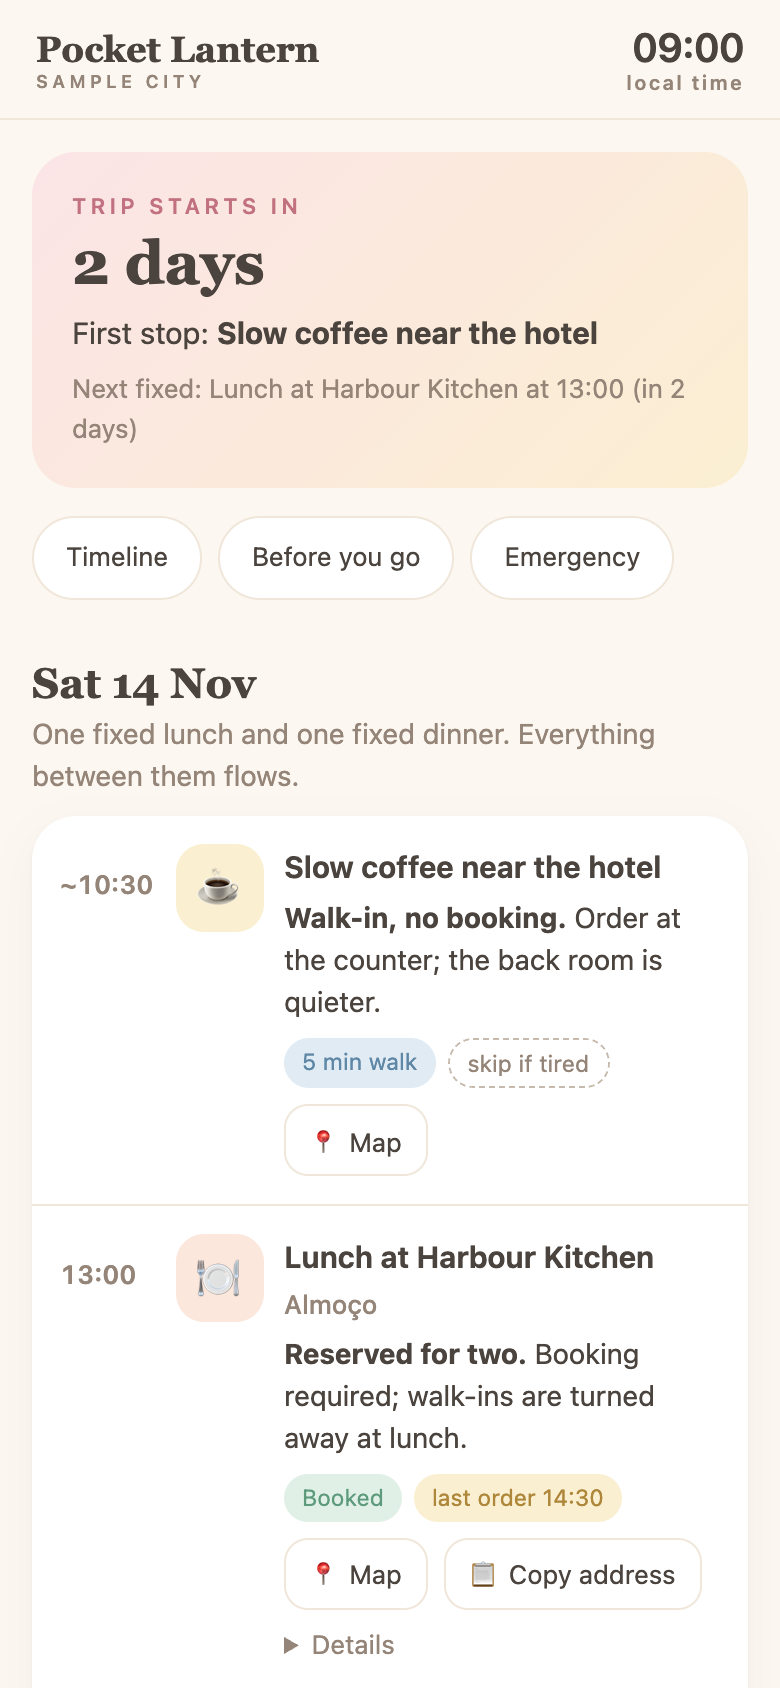
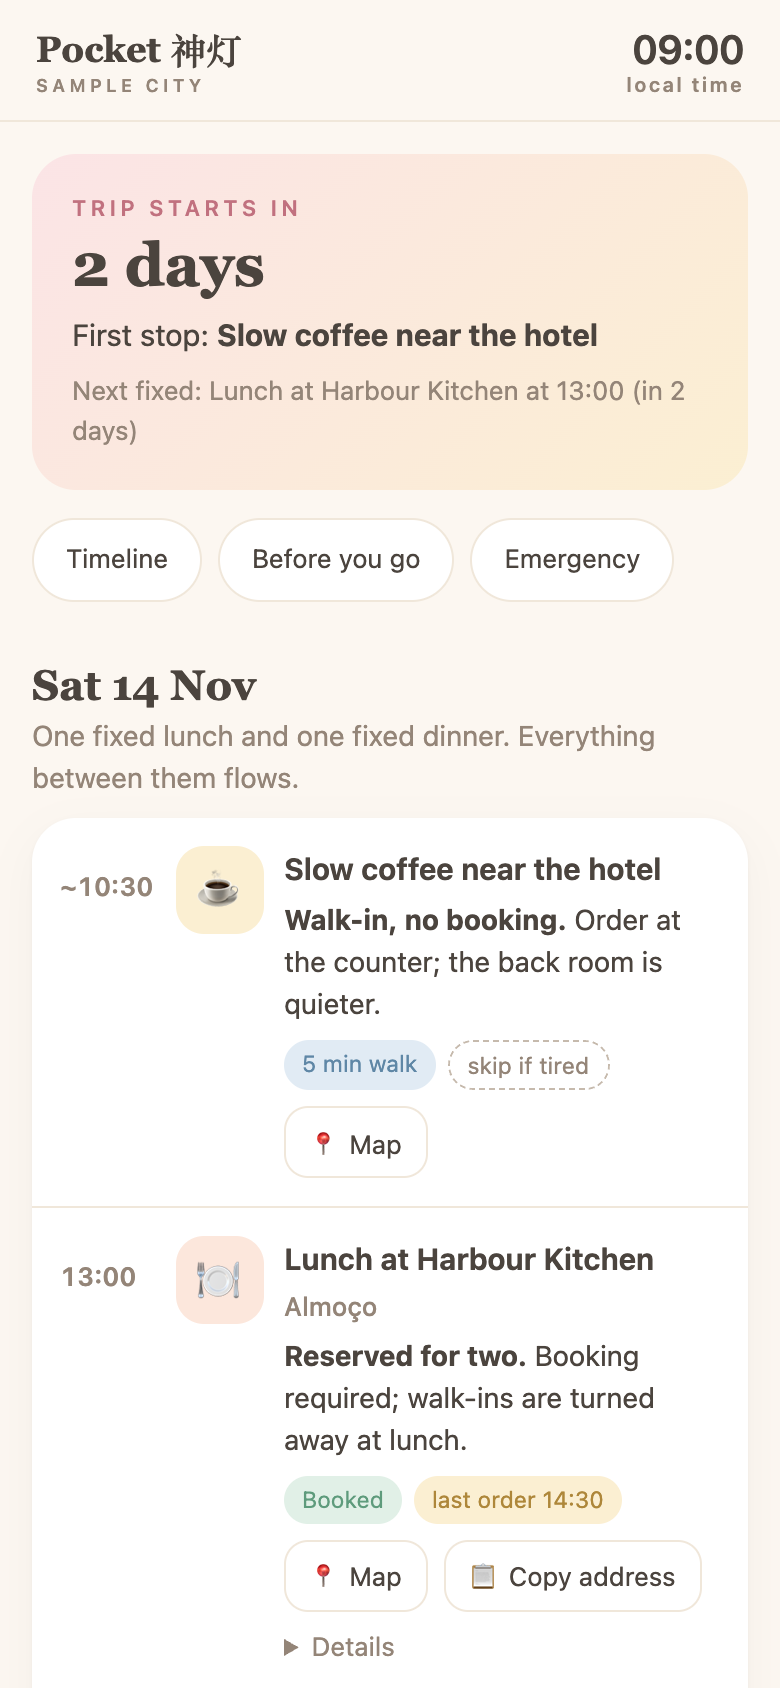
Rename to Pocket 神灯 (pocket-genie)
Display name Pocket 神灯, ASCII slug pocket-genie for the repo, plugin and
skill. Intro and tagline reworked around the pocket-genie idea. All
descriptions remain English; the name is the only non-English text.

diff --git a/skills/pocket-genie/SKILL.md b/skills/pocket-genie/SKILL.md
@@ -1,11 +1,11 @@
 ---
-name: pocket-lantern
-description: Turn any itinerary, booking list or rough travel plan into a calm, glanceable, in-the-moment trip companion - a single-file mobile web app (a "Pocket Lantern") with a live Now/Next hero, a timeline that only puts a clock on the things that are truly booked, a failure plan for every stop, show-the-driver address cards, and honest verified-versus-unverified facts. Built to reduce travel anxiety, not to list attractions. Use this skill whenever the user wants a trip app, travel companion, day-of itinerary page, "what do I do right now" guide, a city guide for one specific trip, or wants to turn a plan, emails or bookings into a phone-friendly page - even if they never say "app" or "lantern" and only say things like "make my trip plan usable on my phone", "I'm nervous about landing in a new city", "make a one-day itinerary I can follow", or "turn these bookings into a timeline".
+name: pocket-genie
+description: Turn any itinerary, booking list or rough travel plan into a calm, glanceable, in-the-moment trip companion - a single-file mobile web app (a "Pocket 神灯", a pocket genie lamp) with a live Now/Next hero, a timeline that only puts a clock on the things that are truly booked, a failure plan for every stop, show-the-driver address cards, and honest verified-versus-unverified facts. Built to reduce travel anxiety, not to list attractions. Use this skill whenever the user wants a trip app, travel companion, day-of itinerary page, "what do I do right now" guide, a city guide for one specific trip, or wants to turn a plan, emails or bookings into a phone-friendly page - even if they never say "app" or "genie" and only say things like "make my trip plan usable on my phone", "I'm nervous about landing in a new city", "make a one-day itinerary I can follow", or "turn these bookings into a timeline".
 ---
 
-# Pocket Lantern
+# Pocket 神灯 (pocket-genie)
 
-A map gives you routes. It does not tell you what the street will feel like, what to do when the train is cancelled, or which door is the real hotel entrance. A Pocket Lantern is the missing layer: one phone-sized page that lights up the next few steps of the day, so the traveler can stop worrying and look up at the city.
+A map gives you routes. It does not tell you what the street will feel like, what to do when the train is cancelled, or which door is the real hotel entrance. A Pocket 神灯 (a pocket genie lamp) is the missing layer: one phone-sized page you can ask at any moment - where am I, what is next, what if it goes wrong - and always get a calm answer, so the traveler can stop worrying and look up at the city.
 
 The product is **editorial judgment plus calm structure**. It is not 3D, not a booking engine, not a list of "top 10 things to do". If the page would read the same for any visitor, it has failed; it should read like a well-informed friend wrote it for this person on this day.
 
@@ -206,7 +206,7 @@ A complete working page: Paper Pastel theme, live Now/Next hero, time-travel tes
 <meta name="robots" content="noindex,nofollow">
 <meta name="theme-color" content="#FCF7F1">
 <link rel="icon" href="data:,">
-<title>Pocket Lantern - Sample City</title>
+<title>Pocket 神灯 - Sample City</title>
 <style>
 :root{--paper:#FCF7F1;--card:#fff;--ink:#4B443E;--soft:#948578;--faint:#C6BAAD;--line:#F0E7DA;
 --blush:#FBE4E6;--blush-d:#C1717F;--mint:#E1F0E7;--mint-d:#5E9B7C;--butter:#FBEFD2;--butter-d:#AE873A;
@@ -239,7 +239,7 @@ details{margin-top:8px}summary{cursor:pointer;color:var(--soft);font-size:13px;m
 </style>
 </head>
 <body>
-<header><div class="wm">Pocket Lantern<small id="city"></small></div><div id="clock">--:--</div></header>
+<header><div class="wm">Pocket 神灯<small id="city"></small></div><div id="clock">--:--</div></header>
 <div class="wrap">
   <div class="hero"><div class="lab" id="hl"></div><div class="big" id="hb"></div><div class="hsub" id="hs"></div><div class="hfix" id="hf"></div></div>
   <nav class="quick" id="quick"></nav>
@@ -300,7 +300,7 @@ function nowMin() {
 }
 
 const EVENTS = DATA.days.flatMap(d => d.timeline.map(e => { const s = dayMin(d.date) + toMin(e.time); return { ...e, abs: s, end: s + (e.dur || 30) }; }));
-const KEY = "pl-done-v1";
+const KEY = "pg-done-v1";
 const getDone = () => { try { return new Set(JSON.parse(localStorage.getItem(KEY) || "[]")); } catch { return new Set(); } };
 const setDone = s => { try { localStorage.setItem(KEY, JSON.stringify([...s])); } catch {} };
 
@@ -368,7 +368,7 @@ Any static host works (drag-and-drop hosting, GitHub Pages, a CDN bucket). Add a
 **Offline reloads.** A plain HTML file will not reload without a signal unless something caches it. Add this `sw.js` next to `index.html` and register it with one line at the end of the page script: `if ("serviceWorker" in navigator) navigator.serviceWorker.register("sw.js");`. It is network-first, so edits always show up when online, and it falls back to the cached copy when offline. Service workers need HTTPS (or localhost), which every common static host provides. Tested: with the network switched off, the page reloaded and rendered.
 
 ```js
-const C = "pl-v1";
+const C = "pg-v1";
 self.addEventListener("install", e => { self.skipWaiting(); e.waitUntil(caches.open(C).then(c => c.addAll(["./", "./index.html"]))); });
 self.addEventListener("activate", e => e.waitUntil(self.clients.claim()));
 self.addEventListener("fetch", e => e.respondWith(

diff --git a/README.md b/README.md
@@ -1,8 +1,8 @@
-# 🏮 Pocket Lantern
+# 🧞 Pocket 神灯
 
-> Turn any itinerary into a calm, glanceable trip companion that fits in your pocket - so you can stop worrying about the day and look up at the city.
+> A pocket genie for every trip: turn any itinerary into a calm, glanceable companion that always has the next answer ready - so you can stop worrying about the day and look up at the city.
 
-A map gives you routes. It does not tell you what the street will feel like, what to do when the train is cancelled, or which door is the real hotel entrance. **Pocket Lantern** is a Claude skill that builds the missing layer: a single-file mobile web page where your bookings and plans become a narrated, live miniature of the day.
+A map gives you routes. It does not tell you what the street will feel like, what to do when the train is cancelled, or which door is the real hotel entrance. **Pocket 神灯** (pocket genie lamp) is a Claude skill that builds the missing layer: a single-file mobile web page you can ask at any moment - where am I, what is next, what if it goes wrong - built from your own bookings and plans.
 
 <table>
   <tr>
@@ -27,16 +27,16 @@ A map gives you routes. It does not tell you what the street will feel like, wha
 As a Claude Code plugin marketplace:
 
 ```
-/plugin marketplace add 3243dwon/pocket-lantern
-/plugin install pocket-lantern@pocket-lantern
+/plugin marketplace add 3243dwon/pocket-genie
+/plugin install pocket-genie@pocket-genie
 ```
 
 Or copy the single skill file into your own skills folder:
 
 ```bash
-mkdir -p ~/.claude/skills/pocket-lantern
-curl -fsSL https://raw.githubusercontent.com/3243dwon/pocket-lantern/main/skills/pocket-lantern/SKILL.md \
-  -o ~/.claude/skills/pocket-lantern/SKILL.md
+mkdir -p ~/.claude/skills/pocket-genie
+curl -fsSL https://raw.githubusercontent.com/3243dwon/pocket-genie/main/skills/pocket-genie/SKILL.md \
+  -o ~/.claude/skills/pocket-genie/SKILL.md
 ```
 
 ## Use it
